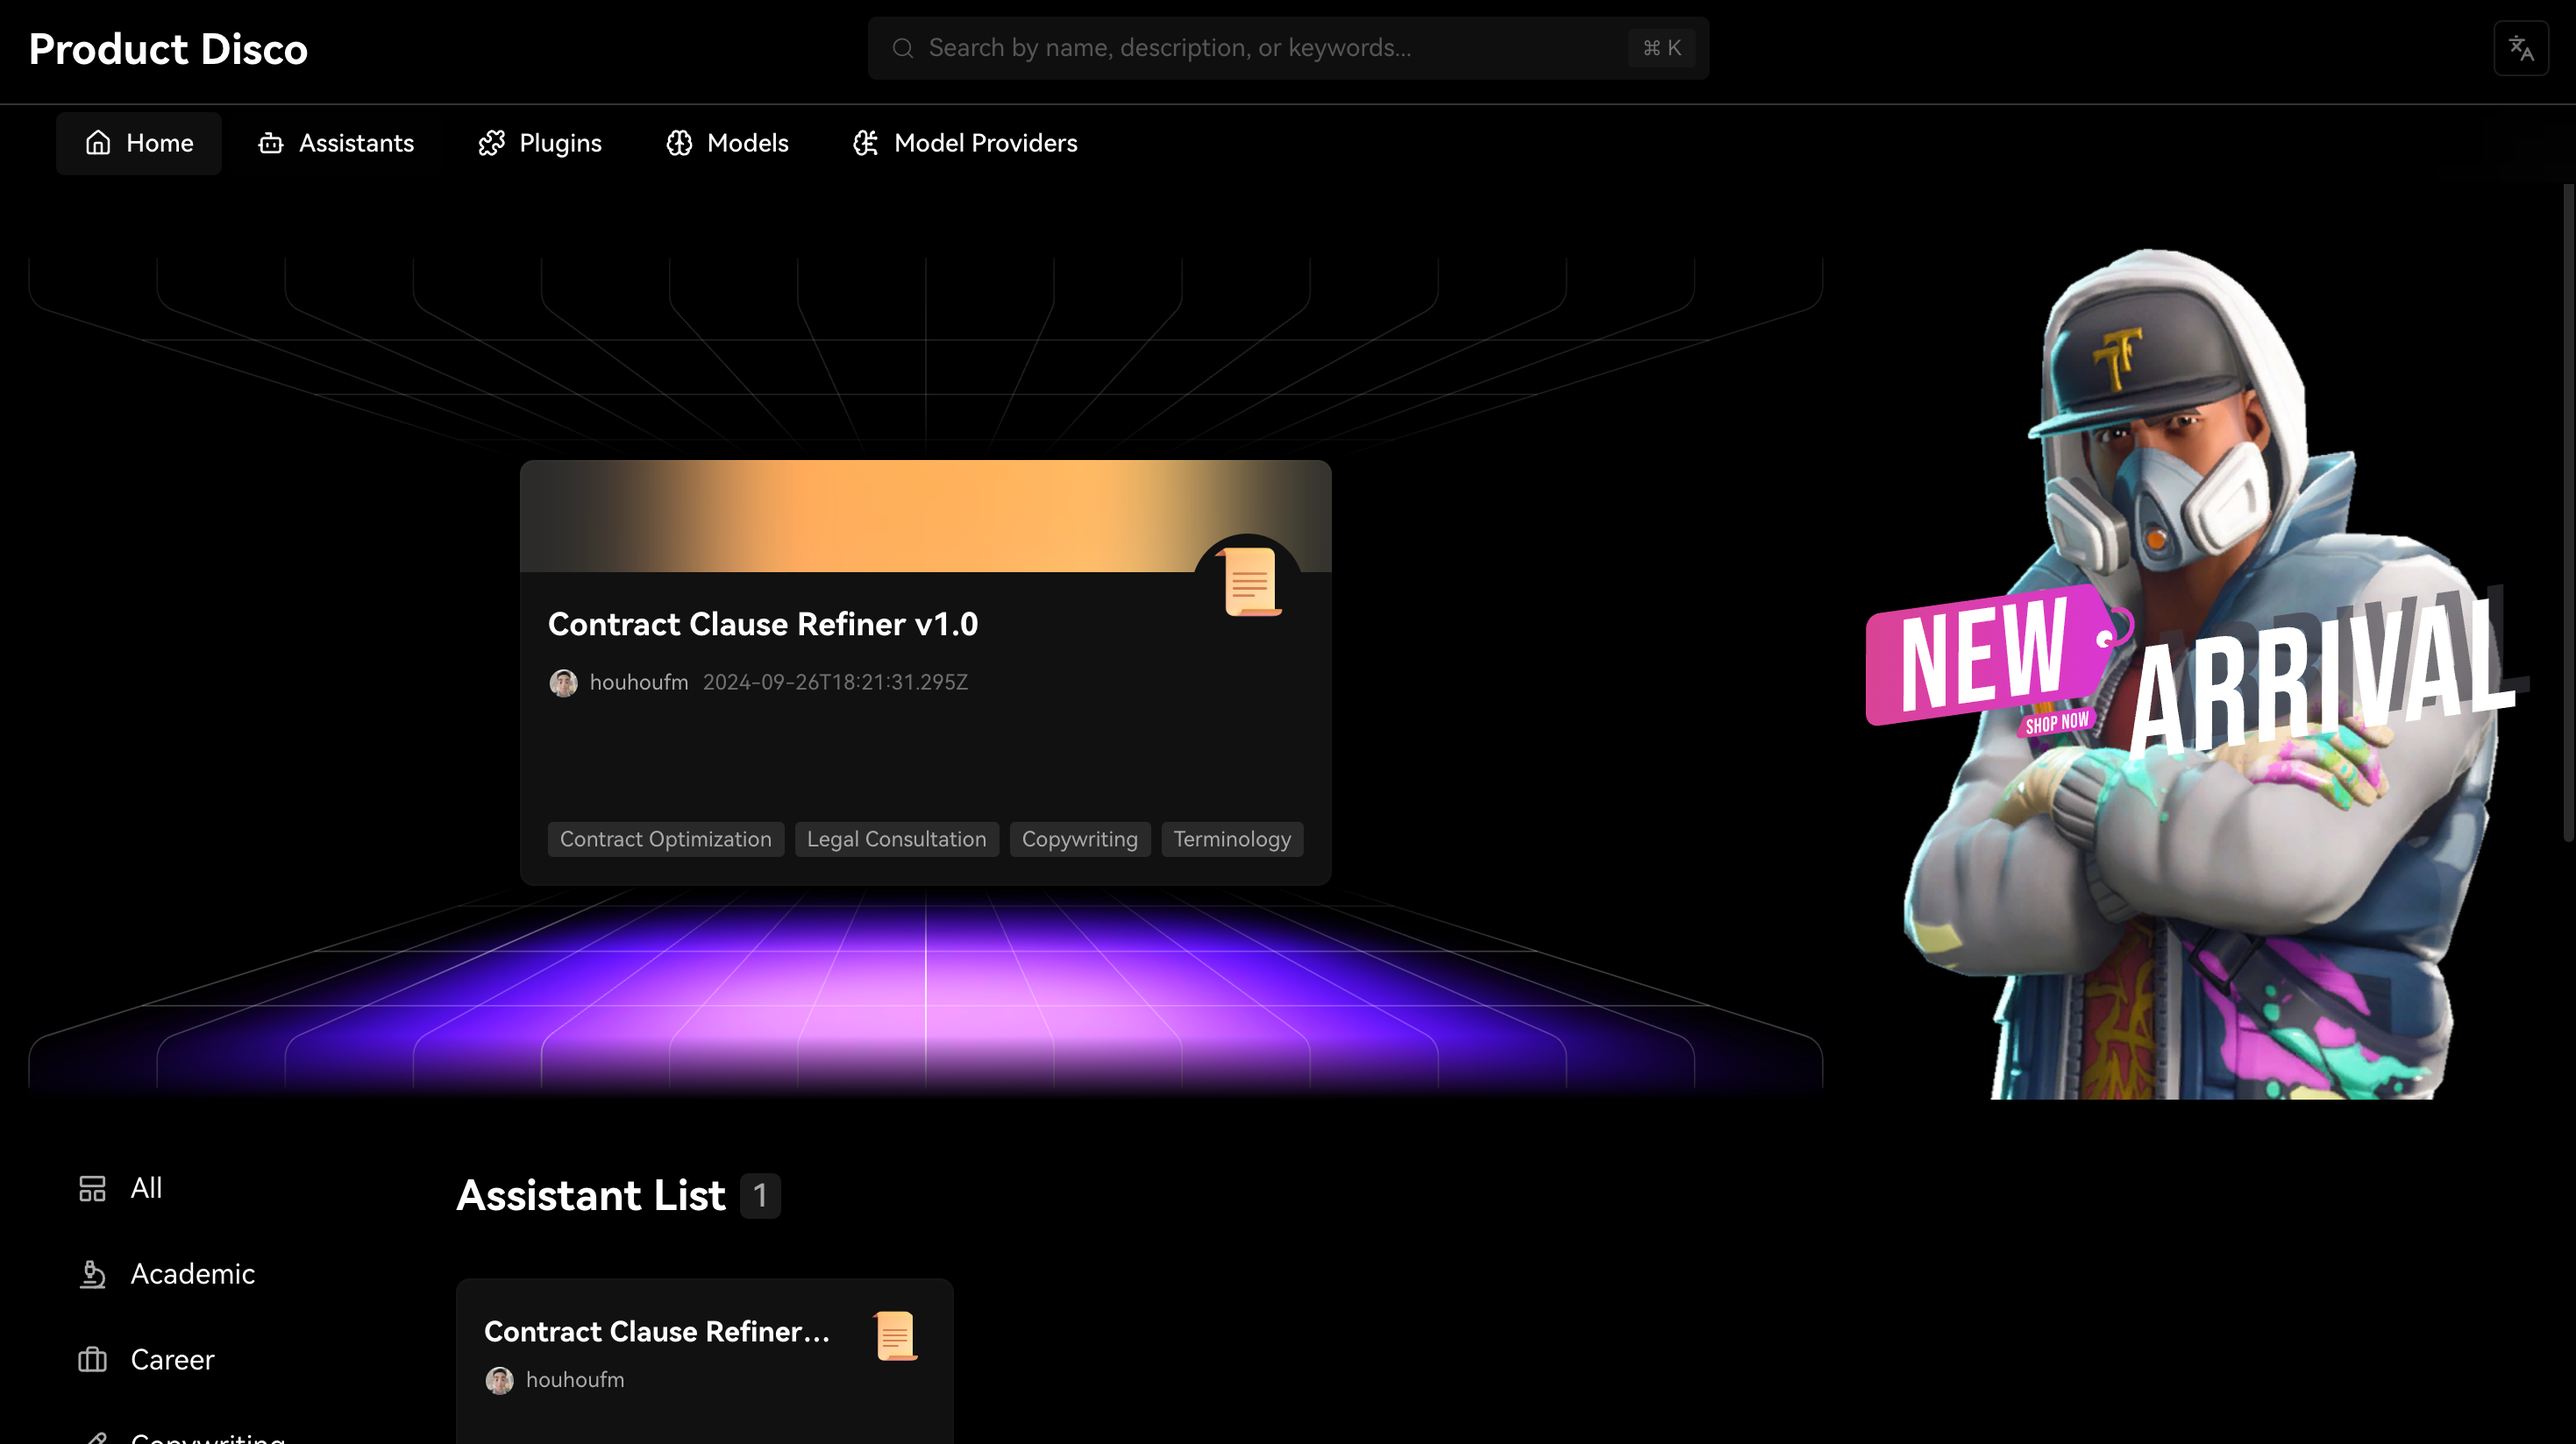
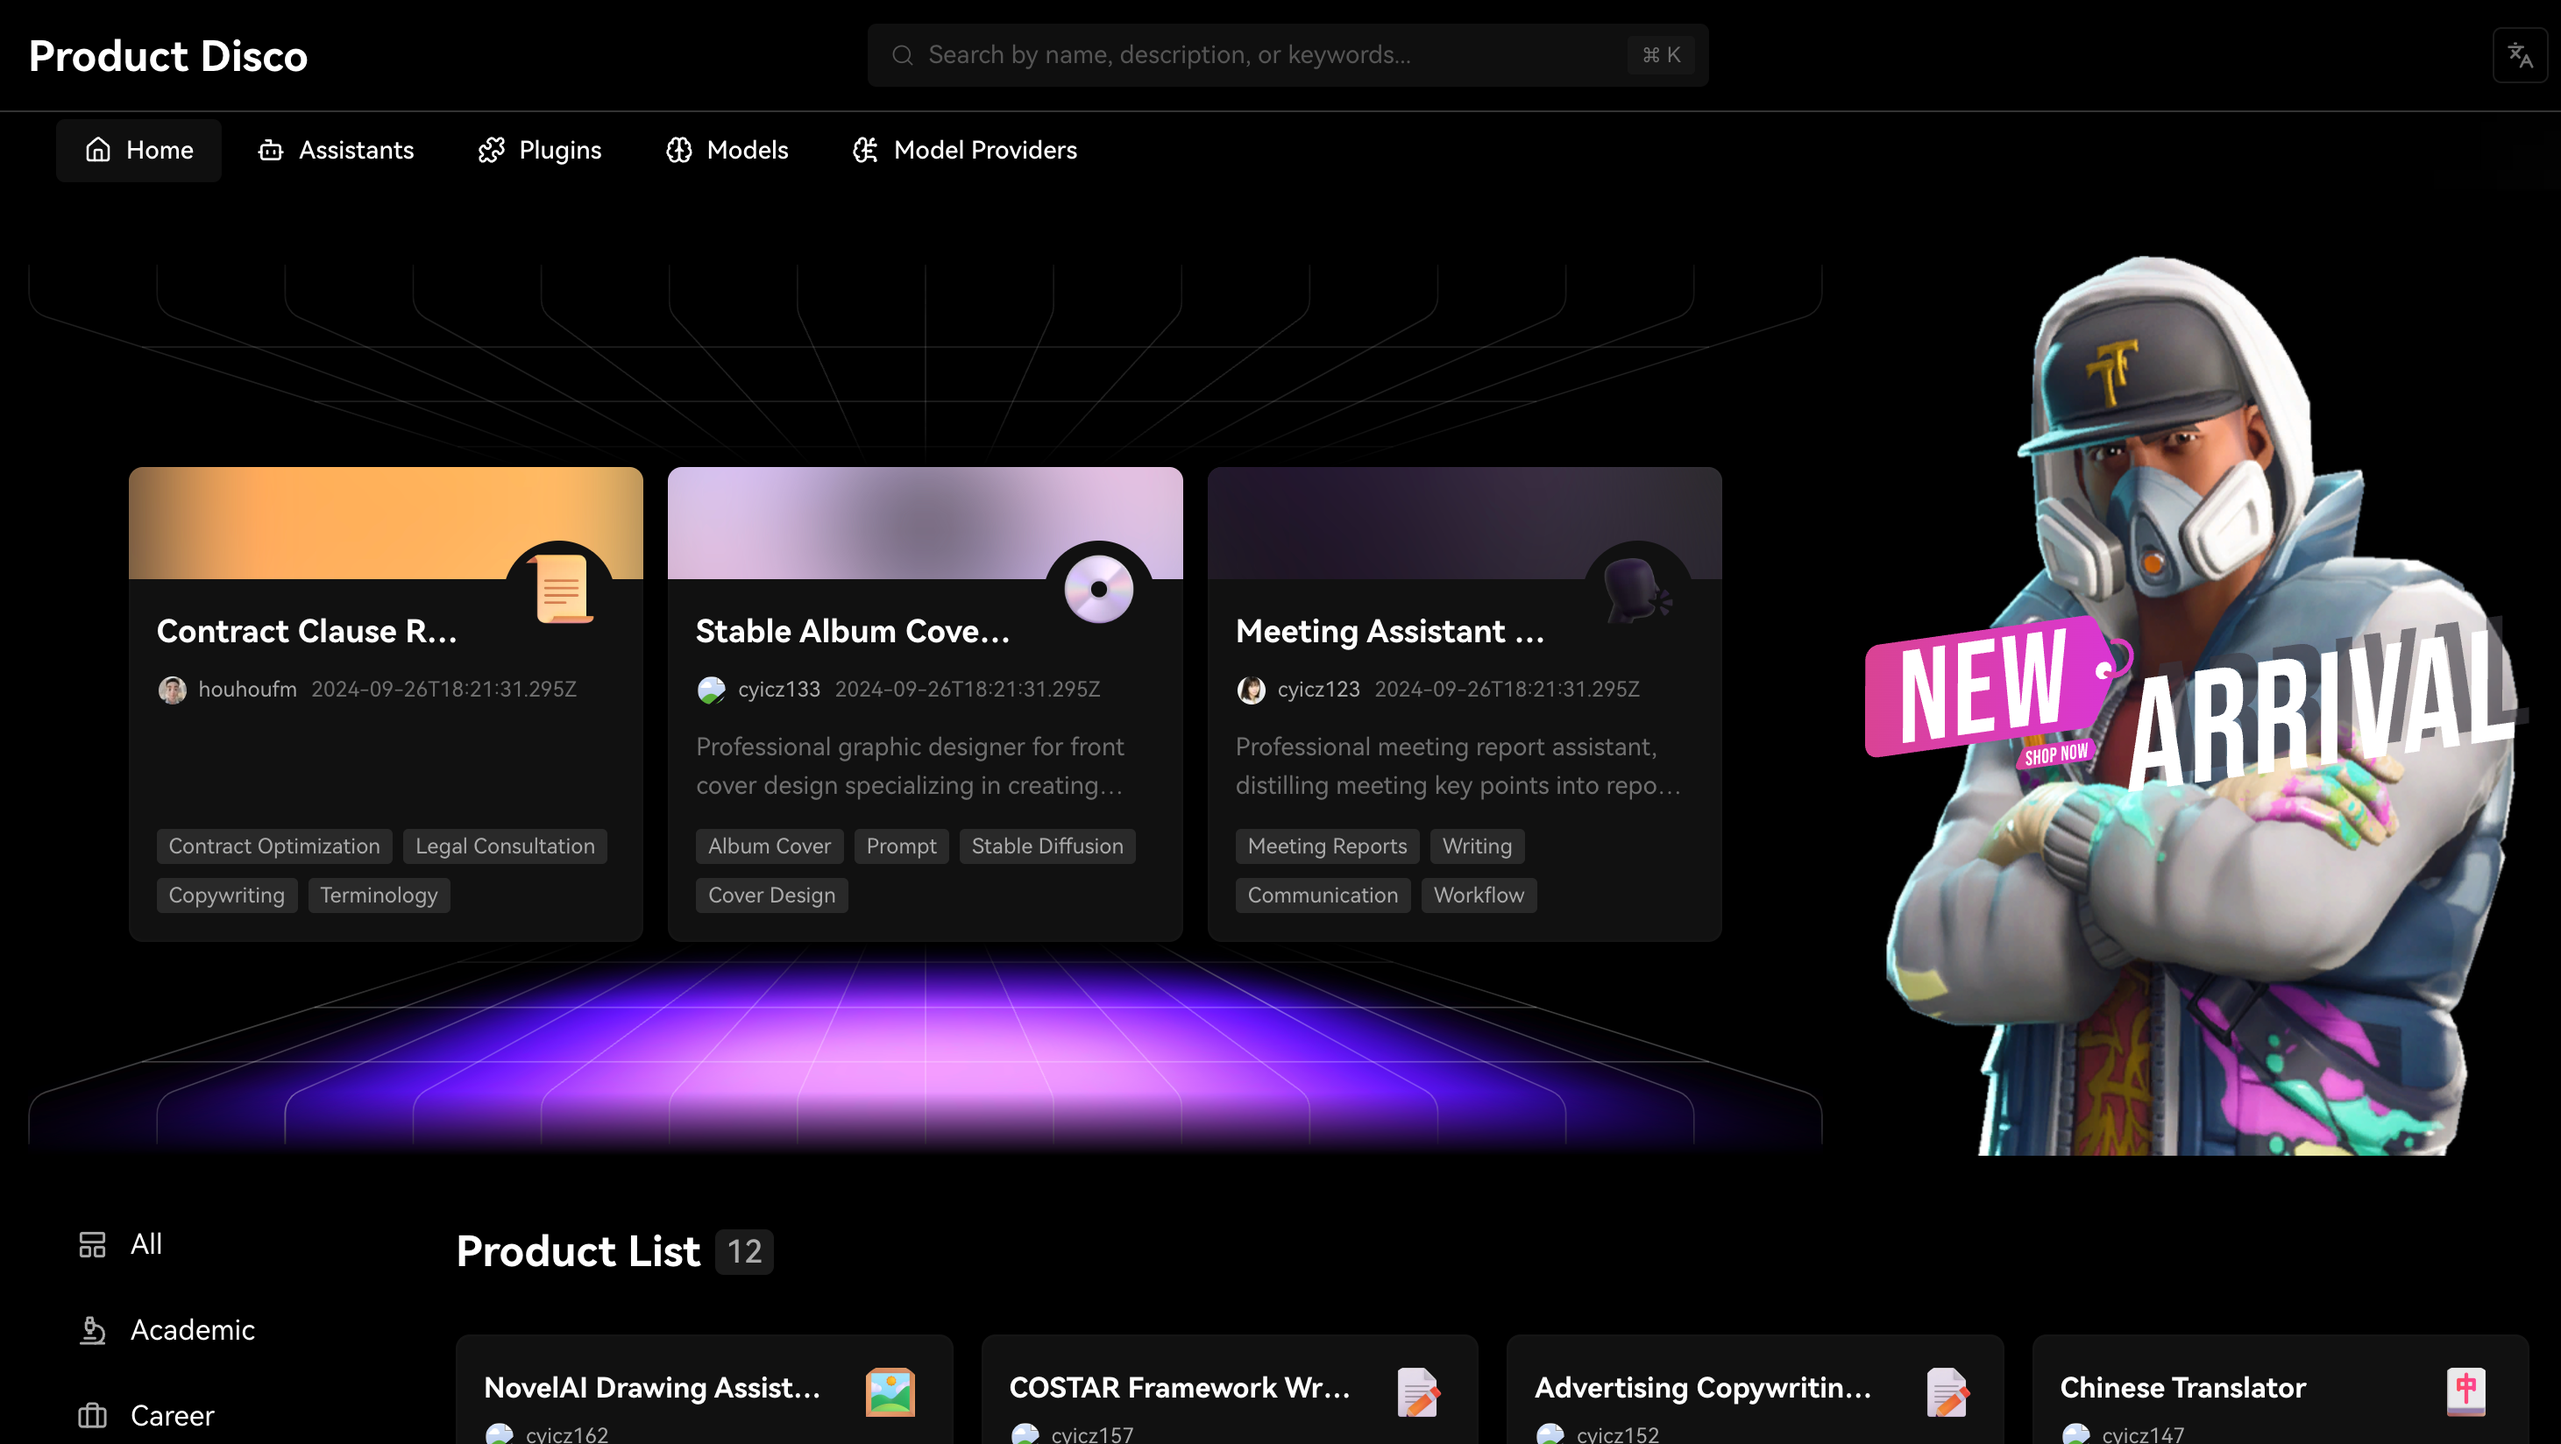
refactor: seperate featured product and product list

diff --git a/src/server/services/discover/index.ts b/src/server/services/discover/index.ts
@@ -13,10 +13,6 @@ interface GetProductProps {
 }
 
 export type ProductList = InferResponseType<(typeof client.api.products)['$get'], 200>;
-export type ProductListWithFeatured = InferResponseType<
-  (typeof client.api.products)['with-featured']['$get'],
-  200
->;
 
 export class DiscoverService {
   baseUrl = `${process.env.NEXT_PUBLIC_APP_URL ?? 'http://localhost:3000'}/api/products`;
@@ -80,28 +76,23 @@ export class DiscoverService {
     return json as ProductList;
   };
 
-  getProductListWithFeatured = async ({
-    page = 1,
-    limit = 12,
-  }: GetProductProps): Promise<ProductListWithFeatured> => {
-    const url =
-      `${this.baseUrl}/with-featured?${this.createQueryParams({ page, limit })}` as string;
+  getFeaturedProducts = async ({ page = 1, limit = 3 }: GetProductProps): Promise<ProductList> => {
+    const url = `${this.baseUrl}/featured?${this.createQueryParams({ page, limit })}` as string;
 
     let res = await fetch(url, {
-      next: { revalidate },
-      // cache: 'no-store',
+      next: { revalidate: 120 },
     });
 
     if (!res.ok) {
       res = await fetch(url, {
-        next: { revalidate },
+        next: { revalidate: 120 },
       });
     }
 
-    if (!res.ok) return { featured: [], paginated: [], nextPage: 0 };
+    if (!res.ok) return { data: [], nextPage: 0 };
 
     const json = await res.json();
 
-    return json as ProductListWithFeatured;
+    return json as ProductList;
   };
 }

diff --git a/src/app/api/[[...route]]/products.ts b/src/app/api/[[...route]]/products.ts
@@ -42,6 +42,37 @@ const app = new Hono()
     },
   )
   .get(
+    '/featured',
+    zValidator(
+      'query',
+      z.object({
+        page: z.coerce.number(),
+        limit: z.coerce.number(),
+      }),
+    ),
+    async (c) => {
+      const { page, limit } = c.req.valid('query');
+      const data = await db
+        .select({
+          product: products,
+          meta: meta,
+          categories: categories,
+        })
+        .from(products)
+        .where(eq(products.isFeatured, true))
+        .leftJoin(meta, eq(products.metaId, meta.id)) // Join meta table
+        .leftJoin(categories, eq(products.categoryId, categories.id)) // Join categories table
+        .limit(limit)
+        .offset((page - 1) * limit)
+        .orderBy(desc(products.updatedAt));
+
+      return c.json({
+        data,
+        nextPage: data.length === limit ? page + 1 : null,
+      });
+    },
+  )
+  .get(
     '/with-featured',
     zValidator(
       'query',
@@ -63,7 +94,7 @@ const app = new Hono()
           .where(eq(products.isFeatured, true))
           .leftJoin(meta, eq(products.metaId, meta.id)) // Join meta table
           .leftJoin(categories, eq(products.categoryId, categories.id)) // Join categories table
-          .limit(4)
+          .limit(3)
           .orderBy(desc(products.updatedAt)),
 
         db

diff --git a/src/app/(main)/(home)/(list)/(products)/page.tsx b/src/app/(main)/(home)/(list)/(products)/page.tsx
@@ -31,11 +31,10 @@ const Page = async ({ searchParams }: Props) => {
   const mobile = isMobileDevice();
 
   const discoverService = new DiscoverService();
-  const items = await discoverService.getProductListWithFeatured({});
+  const featured = await discoverService.getFeaturedProducts({});
+  const products = await discoverService.getProductList({});
 
   // const { data, status, fetchNextPage, isFetchingNextPage, hasNextPage } = useGetProducts();
-
-  console.log('items');
 
   const ld = ldModule.generate({
     description: t('discover.assistants.description'),
@@ -50,7 +49,7 @@ const Page = async ({ searchParams }: Props) => {
   return (
     <Flexbox gap={24} width={'100%'}>
       <Flexbox gap={24} horizontal width={'100%'}>
-        <Featured items={items.featured} mobile={mobile} />
+        <Featured items={featured.data} mobile={mobile} />
         <Figure />
       </Flexbox>
       <Flexbox gap={24} horizontal style={{ position: 'relative' }} width={'100%'}>
@@ -59,7 +58,7 @@ const Page = async ({ searchParams }: Props) => {
         </CategoryContainer>
         <Flexbox flex={1} gap={16}>
           <StructuredData ld={ld} />
-          <List items={items.paginated} />
+          <List items={products.data} />
         </Flexbox>
       </Flexbox>
     </Flexbox>

diff --git a/src/app/(main)/(home)/search/page.tsx b/src/app/(main)/(home)/search/page.tsx
@@ -19,7 +19,7 @@ type Props = {
   searchParams: {
     hl?: Locales;
     q?: string;
-    type?: 'assistants' | 'plugins' | 'models' | 'providers';
+    type?: string;
   };
 };
 
@@ -36,8 +36,8 @@ export const generateMetadata = async ({ searchParams }: Props) => {
 };
 
 const Page = async ({ searchParams }: Props) => {
-  const { q, type = 'assistants' } = searchParams;
-  if (!q) redirect(urlJoin(`/discover`, type));
+  const { q, type } = searchParams;
+  if (!q) redirect(type ? urlJoin(`/`, type) : '/');
   const keywords = decodeURIComponent(q);
 
   const { t, locale } = await translation('metadata', searchParams?.hl);

diff --git a/src/app/(main)/(home)/(list)/(products)/features/List.tsx b/src/app/(main)/(home)/(list)/(products)/features/List.tsx
@@ -4,7 +4,7 @@ import { Empty } from 'antd';
 import { memo } from 'react';
 import { useTranslation } from 'react-i18next';
 
-import { ProductListWithFeatured } from '@/server/services/discover';
+import { ProductList } from '@/server/services/discover';
 
 import SearchResultCount from '../../../components/SearchResultCount';
 import Title from '../../../components/Title';
@@ -13,7 +13,7 @@ import Card from './Card';
 
 export interface ListProps {
   category?: string;
-  items?: ProductListWithFeatured['paginated'];
+  items?: ProductList['data'];
   searchKeywords?: string;
 }
 

diff --git a/src/db/schema/products.ts b/src/db/schema/products.ts
@@ -16,7 +16,7 @@ export const products = pgTable('products', {
   homepage: varchar('homepage', { length: 255 }),
   identifier: varchar('identifier', { length: 255 }).notNull(),
   schemaVersion: integer('schema_version').notNull(),
-  isFeatured: boolean('isFeatured').notNull().default(false),
+  isFeatured: boolean('is_featured').notNull().default(false),
   categoryId: varchar('category_id', { length: 30 })
     .references(() => categories.id, { onDelete: 'cascade' })
     .notNull(), // foreign key to 'category'

diff --git a/src/app/(main)/(home)/(list)/(products)/features/Featured.tsx b/src/app/(main)/(home)/(list)/(products)/features/Featured.tsx
@@ -5,12 +5,12 @@ import Image from 'next/image';
 import { memo } from 'react';
 import { Flexbox } from 'react-layout-kit';
 
-import { ProductListWithFeatured } from '@/server/services/discover';
+import { ProductList } from '@/server/services/discover';
 
 import Card from './Card';
 
 interface FeaturedProps {
-  items?: ProductListWithFeatured['featured'];
+  items?: ProductList['data'];
   mobile?: boolean;
 }
 

diff --git a/README.md b/README.md
@@ -21,7 +21,7 @@
 - [x] Apply Lazy Load
 - [x] Apply Skeleton Load
 - [x] Internalization with i18next
-- [x] Internalization with i18next
+- [x] Server side rendering
 - [x] Have Code Formatter
 - [x] Have Code Lint
 - [x] Optimize rendering large lists with **React Virtuoso**
